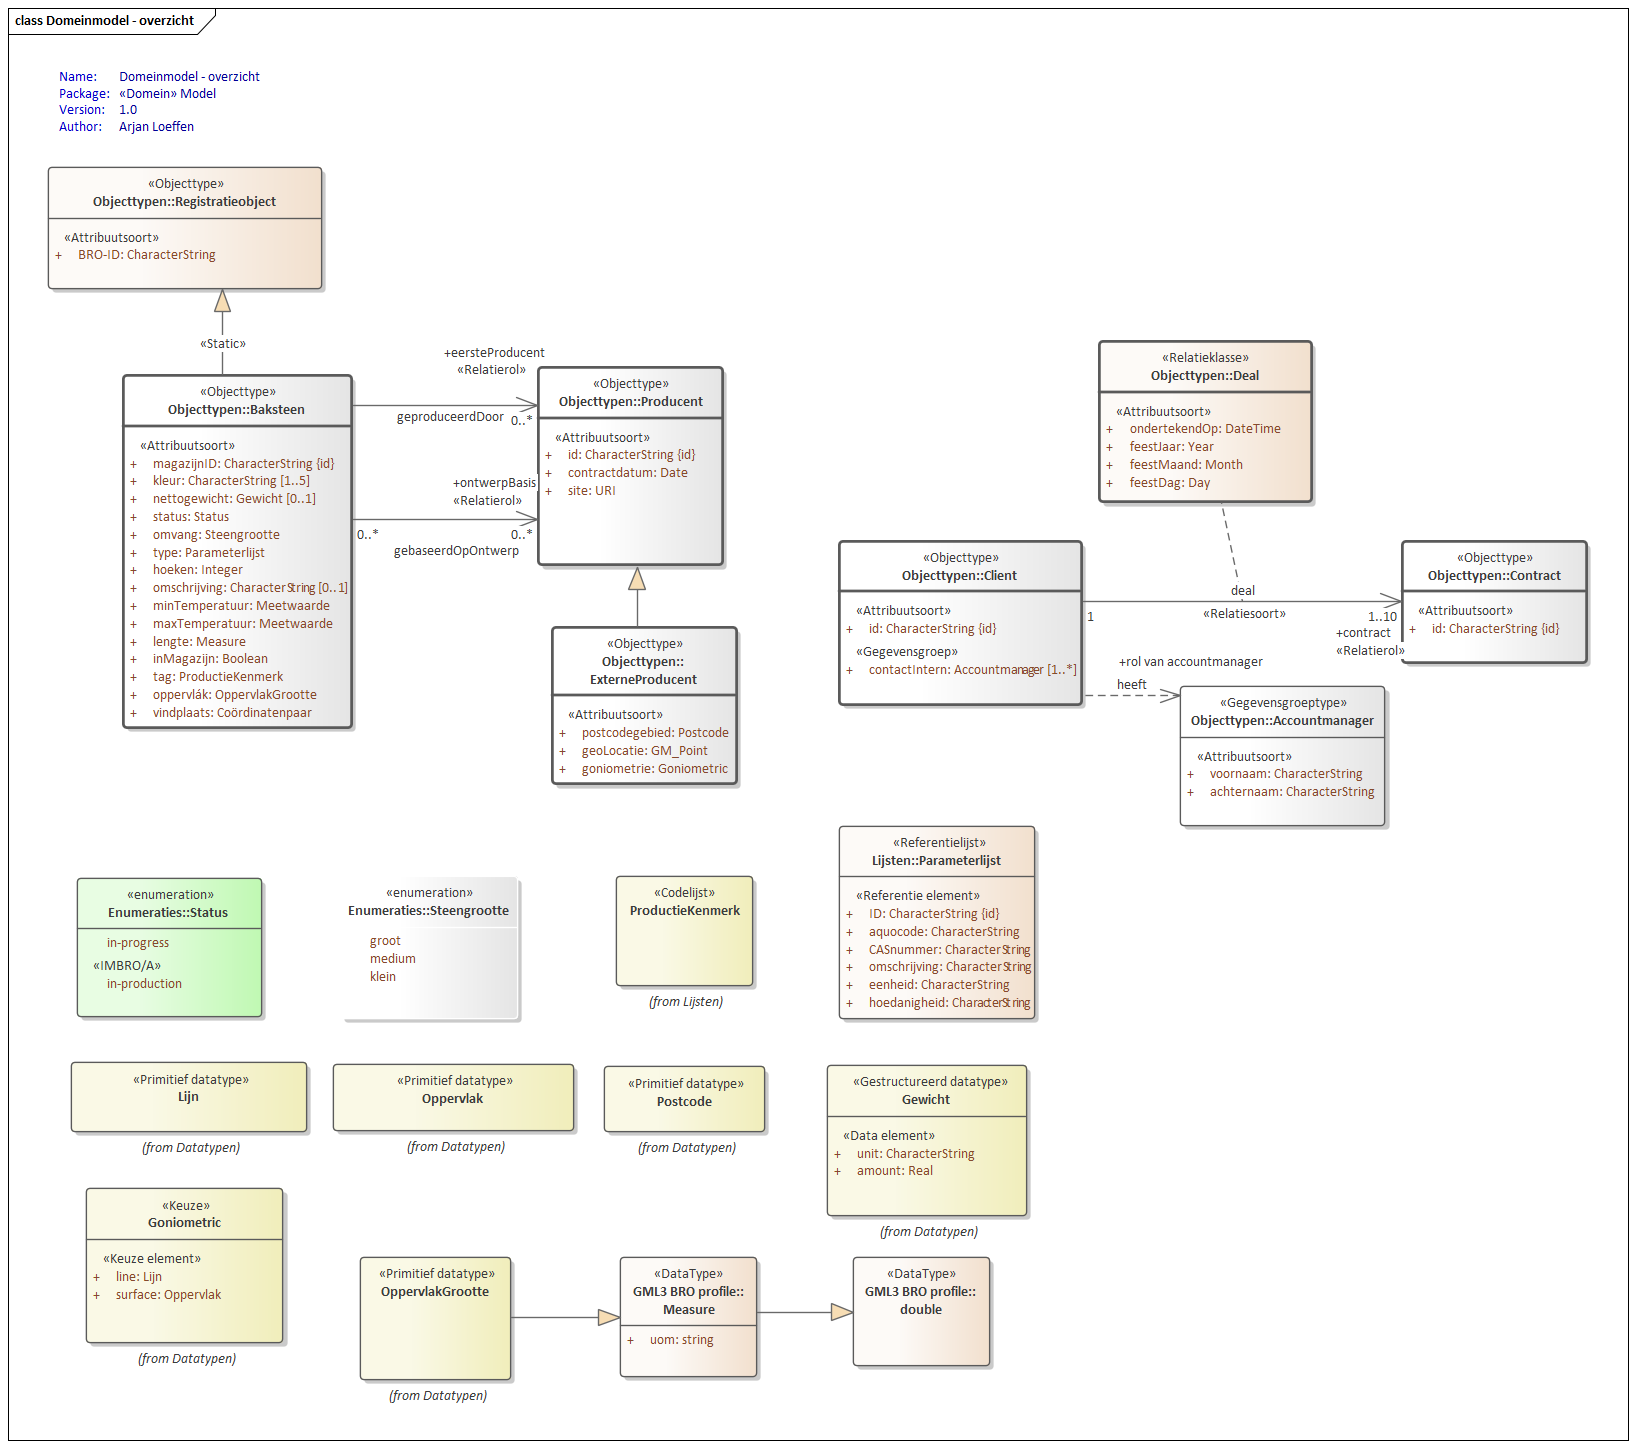
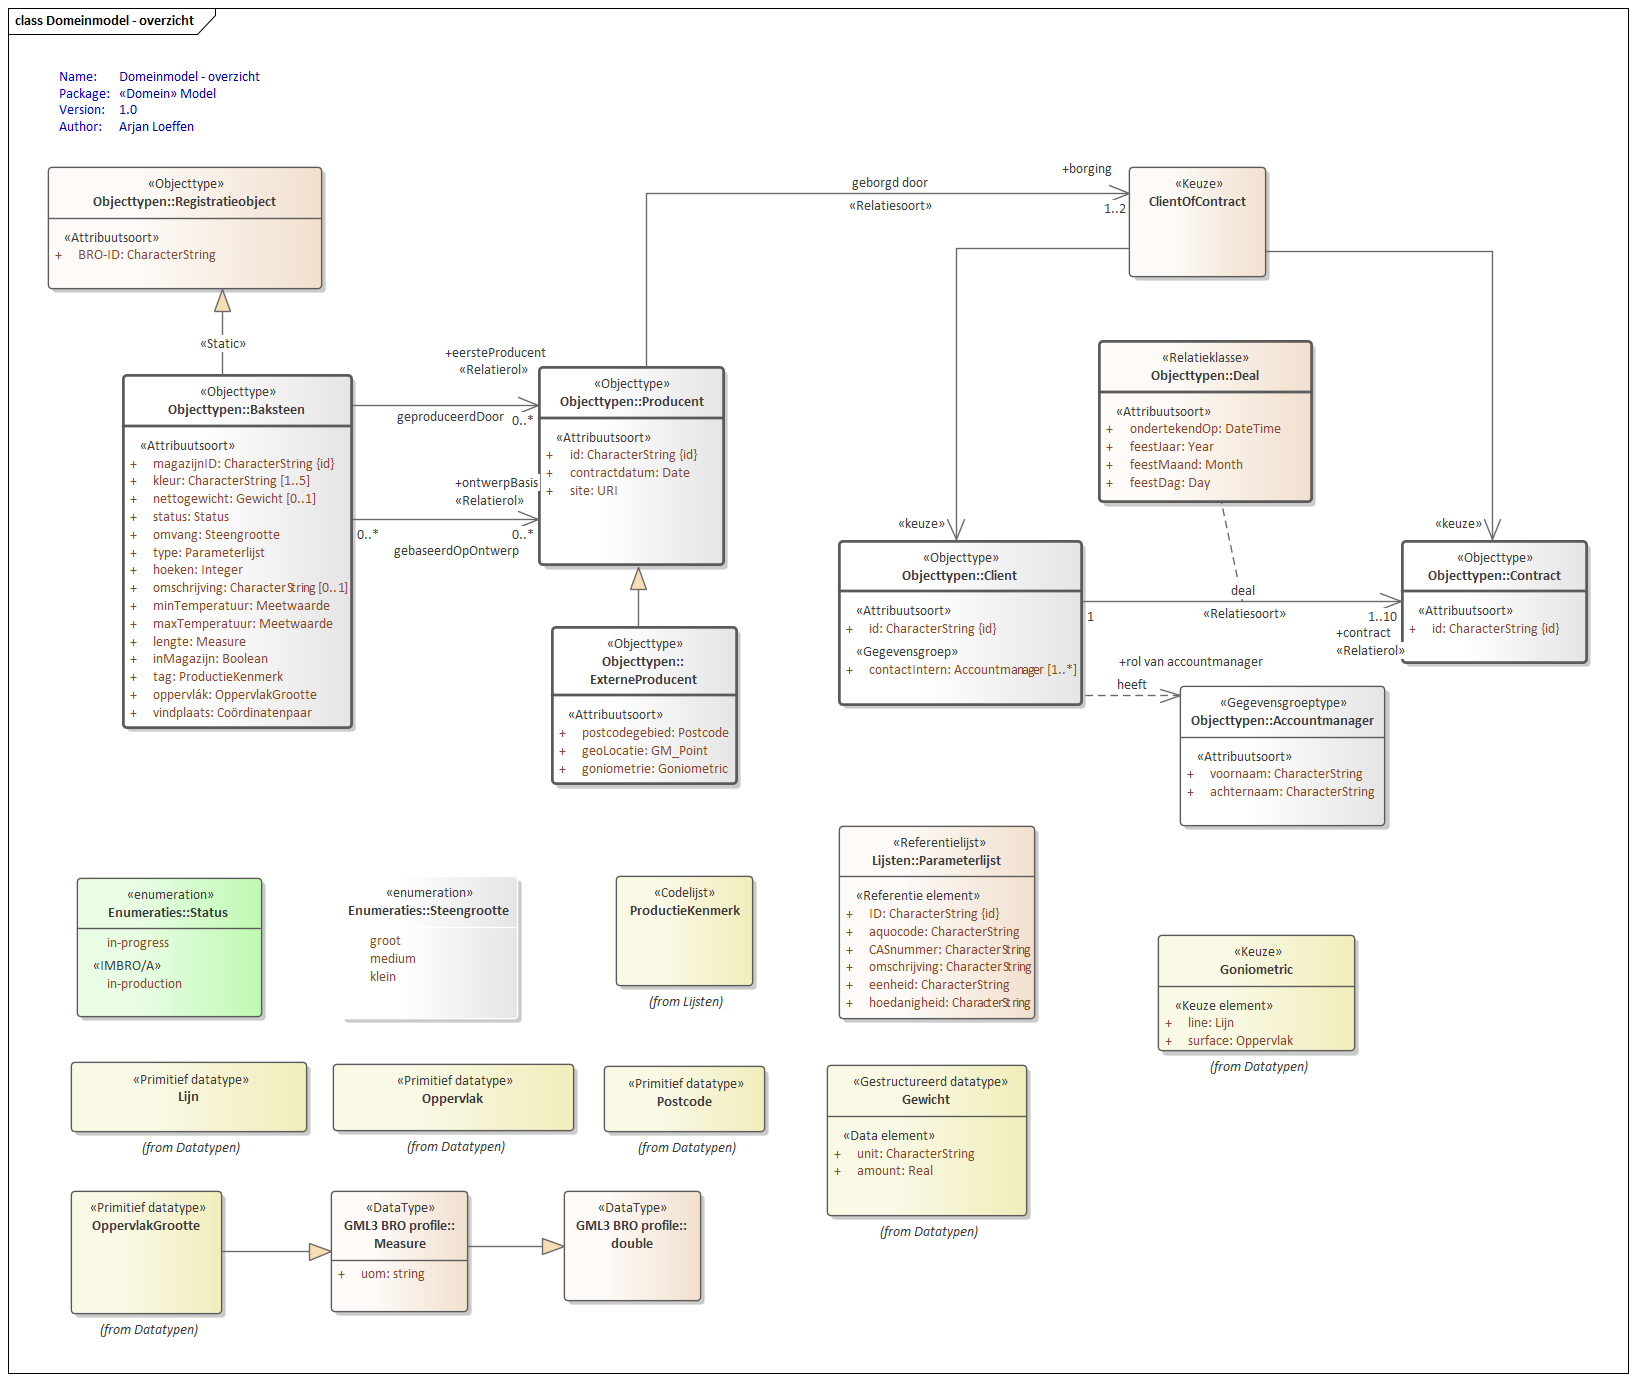
Conceptualmodel-SampleBaseSAMPLE-1.0.0-2-20130318-20210414-194719

diff --git a/data/SAMPLE-cat.msword.html b/data/SAMPLE-cat.msword.html
@@ -15,7 +15,7 @@
    <body>
       <p>Conceptual model/SampleBase (SAMPLE)/20130318</p>
       <p>Imvertor: 1.64.1</p>
-      <p>Model release: Conceptualmodel-SampleBaseSAMPLE-1.0.0-2-20130318-20210414-141713</p>
+      <p>Model release: Conceptualmodel-SampleBaseSAMPLE-1.0.0-2-20130318-20210414-194719</p>
       <hr>
       <section>
          <h1>Artikel 1 Definitie van registratieobject, entiteiten en attributen</h1>
@@ -53,7 +53,7 @@
          <section>
             <h2>Het domeinmodel</h2>
             <section id="">
-               <div class="imageinfo overview"><img src="Images/EAID_08513AA0_8A50_46c1_AD86_9B80D9A6AAE1.png" usemap="#imagemap-EAID_08513AA0_8A50_46c1_AD86_9B80D9A6AAE1" alt="Diagram Overzicht van alle constructies in dit conceptuele model."><map name="imagemap-EAID_08513AA0_8A50_46c1_AD86_9B80D9A6AAE1"><area shape="rect" alt="ProductieKenmerk" coords="616,876,753,986" href="#graph_EAID_4D78F0AD_88ED_44ef_9A76_163426CD74D1"><area shape="rect" alt="Parameterlijst" coords="839,826,1035,1019" href="#graph_EAID_44AEBC38_4744_431f_B31C_D809E3AA7D52"><area shape="rect" alt="Registratieobject" coords="48,167,322,289" href="#graph_EAID_9E9289AB_19E6_48af_87FD_8BC9E0875C28"><area shape="rect" alt="Steengrootte" coords="340,876,518,1019" href="#graph_EAID_65363897_E229_41fd_BE6F_E6B1BACAD458"><area shape="rect" alt="Accountmanager" coords="1180,686,1385,826" href="#graph_EAID_29D6B892_B943_494c_94C7_A13DB031E998"><area shape="rect" alt="Status" coords="77,878,262,1017" href="#graph_EAID_E86D21EE_58FD_4975_9CCB_AFF2434704A8"><area shape="rect" alt="Goniometric" coords="86,1188,283,1343" href="#graph_EAID_22DF50AD_91EB_4db3_AA33_D5C2CE2FB906"><area shape="rect" alt="ExterneProducent" coords="552,627,737,784" href="#graph_EAID_E2C93214_90E2_4151_B719_7BB8CDF8679F"><area shape="rect" alt="Baksteen" coords="123,375,352,728" href="#graph_EAID_CF7C4448_E50C_4c7a_B1D0_C4FCB2EB1814"><area shape="rect" alt="Producent" coords="538,367,723,565" href="#graph_EAID_04EED45C_4D30_41b9_83EE_65237E1F8E27"><area shape="rect" alt="Contract" coords="1402,541,1587,663" href="#graph_EAID_77987690_1141_457d_A33B_E1C7AA1EA812"><area shape="rect" alt="Client" coords="839,541,1082,705" href="#graph_EAID_DF955A82_3E49_4c9d_9C0C_74738600FE1B"></map><p><b>Domeinmodel</b> — Overzicht van alle constructies in dit conceptuele model.</p>
+               <div class="imageinfo overview"><img src="Images/EAID_08513AA0_8A50_46c1_AD86_9B80D9A6AAE1.png" usemap="#imagemap-EAID_08513AA0_8A50_46c1_AD86_9B80D9A6AAE1" alt="Diagram Overzicht van alle constructies in dit conceptuele model."><map name="imagemap-EAID_08513AA0_8A50_46c1_AD86_9B80D9A6AAE1"><area shape="rect" alt="ProductieKenmerk" coords="616,876,753,986" href="#graph_EAID_4D78F0AD_88ED_44ef_9A76_163426CD74D1"><area shape="rect" alt="Parameterlijst" coords="839,826,1035,1019" href="#graph_EAID_44AEBC38_4744_431f_B31C_D809E3AA7D52"><area shape="rect" alt="Registratieobject" coords="48,167,322,289" href="#graph_EAID_9E9289AB_19E6_48af_87FD_8BC9E0875C28"><area shape="rect" alt="Steengrootte" coords="340,876,518,1019" href="#graph_EAID_65363897_E229_41fd_BE6F_E6B1BACAD458"><area shape="rect" alt="Accountmanager" coords="1180,686,1385,826" href="#graph_EAID_29D6B892_B943_494c_94C7_A13DB031E998"><area shape="rect" alt="Status" coords="77,878,262,1017" href="#graph_EAID_E86D21EE_58FD_4975_9CCB_AFF2434704A8"><area shape="rect" alt="Goniometric" coords="1158,935,1355,1051" href="#graph_EAID_22DF50AD_91EB_4db3_AA33_D5C2CE2FB906"><area shape="rect" alt="ExterneProducent" coords="552,627,737,784" href="#graph_EAID_E2C93214_90E2_4151_B719_7BB8CDF8679F"><area shape="rect" alt="Baksteen" coords="123,375,352,728" href="#graph_EAID_CF7C4448_E50C_4c7a_B1D0_C4FCB2EB1814"><area shape="rect" alt="Producent" coords="539,367,724,565" href="#graph_EAID_04EED45C_4D30_41b9_83EE_65237E1F8E27"><area shape="rect" alt="Contract" coords="1402,541,1587,663" href="#graph_EAID_77987690_1141_457d_A33B_E1C7AA1EA812"><area shape="rect" alt="Client" coords="839,541,1082,705" href="#graph_EAID_DF955A82_3E49_4c9d_9C0C_74738600FE1B"></map><p><b>Domeinmodel</b> — Overzicht van alle constructies in dit conceptuele model.</p>
                </div>
             </section>
          </section>
@@ -945,7 +945,45 @@
                            </tr>
                         </tbody>
                      </table>
-                     </section>
+                     </section><a class="anchor" id="detail_association_Model_Producent_borging"></a><section id="detail_association_Model_Producent_borging">
+                     <h4>  borging</h4>
+                     <table style="width: 100%;">
+                        <colgroup style="width: 30%;"></colgroup>
+                        <colgroup style="width: 70%;"></colgroup>
+                        <tbody>
+                           <tr>
+                              <th>Type gegeven</th>
+                              <td>Associatie van Producent</td>
+                           </tr>
+                           <tr>
+                              <th>Kardinaliteit</th>
+                              <td>1..2</td>
+                           </tr>
+                           <tr>
+                              <th>Relatiesoort naam</th>
+                              <td>geborgd door</td>
+                           </tr>
+                           <tr>
+                              <th>Relatierol naam</th>
+                              <td>borging</td>
+                           </tr>
+                           <tr>
+                              <th>Bron</th>
+                              <td>Producent</td>
+                           </tr>
+                           <tr>
+                              <th>Doel</th>
+                              <td>
+                                 
+                                 KeuzeUit
+                                 Contract
+                                 Client
+                                 
+                                 </td>
+                           </tr>
+                        </tbody>
+                     </table>
+                  </section>
                </section><a class="anchor" id="graph_EAID_E2C93214_90E2_4151_B719_7BB8CDF8679F"></a><a class="anchor" id="global_class_Model_ExterneProducent"></a><section id="global_class_Model_ExterneProducent">
                   <h3>   ExterneProducent</h3>
                   <table style="width: 100%;">
@@ -1120,7 +1158,7 @@
                            </tr>
                         </tbody>
                      </table>
-                     </section><a class="anchor" id="detail_d18335e4255"></a><section id="detail_d18335e4255">
+                     </section><a class="anchor" id="detail_d18844e4571"></a><section id="detail_d18844e4571">
                      <h4>  contactIntern</h4>
                      <table style="width: 100%;">
                         <colgroup style="width: 30%;"></colgroup>

diff --git a/data/SAMPLE-cat.respec.html b/data/SAMPLE-cat.respec.html
@@ -31,7 +31,7 @@
       </section>
    <section id="">
       <h2>Het domeinmodel   </h2>
-      <div class="imageinfo overview"><img src="data/Images/EAID_08513AA0_8A50_46c1_AD86_9B80D9A6AAE1.png" usemap="#imagemap-EAID_08513AA0_8A50_46c1_AD86_9B80D9A6AAE1" alt="Diagram Overzicht van alle constructies in dit conceptuele model."><map name="imagemap-EAID_08513AA0_8A50_46c1_AD86_9B80D9A6AAE1"><area shape="rect" alt="ProductieKenmerk" coords="616,876,753,986" href="#graph_EAID_4D78F0AD_88ED_44ef_9A76_163426CD74D1"><area shape="rect" alt="Parameterlijst" coords="839,826,1035,1019" href="#graph_EAID_44AEBC38_4744_431f_B31C_D809E3AA7D52"><area shape="rect" alt="Registratieobject" coords="48,167,322,289" href="#graph_EAID_9E9289AB_19E6_48af_87FD_8BC9E0875C28"><area shape="rect" alt="Steengrootte" coords="340,876,518,1019" href="#graph_EAID_65363897_E229_41fd_BE6F_E6B1BACAD458"><area shape="rect" alt="Accountmanager" coords="1180,686,1385,826" href="#graph_EAID_29D6B892_B943_494c_94C7_A13DB031E998"><area shape="rect" alt="Status" coords="77,878,262,1017" href="#graph_EAID_E86D21EE_58FD_4975_9CCB_AFF2434704A8"><area shape="rect" alt="Goniometric" coords="86,1188,283,1343" href="#graph_EAID_22DF50AD_91EB_4db3_AA33_D5C2CE2FB906"><area shape="rect" alt="ExterneProducent" coords="552,627,737,784" href="#graph_EAID_E2C93214_90E2_4151_B719_7BB8CDF8679F"><area shape="rect" alt="Baksteen" coords="123,375,352,728" href="#graph_EAID_CF7C4448_E50C_4c7a_B1D0_C4FCB2EB1814"><area shape="rect" alt="Producent" coords="538,367,723,565" href="#graph_EAID_04EED45C_4D30_41b9_83EE_65237E1F8E27"><area shape="rect" alt="Contract" coords="1402,541,1587,663" href="#graph_EAID_77987690_1141_457d_A33B_E1C7AA1EA812"><area shape="rect" alt="Client" coords="839,541,1082,705" href="#graph_EAID_DF955A82_3E49_4c9d_9C0C_74738600FE1B"></map><p><b>Domeinmodel</b> — Overzicht van alle constructies in dit conceptuele model.</p>
+      <div class="imageinfo overview"><img src="data/Images/EAID_08513AA0_8A50_46c1_AD86_9B80D9A6AAE1.png" usemap="#imagemap-EAID_08513AA0_8A50_46c1_AD86_9B80D9A6AAE1" alt="Diagram Overzicht van alle constructies in dit conceptuele model."><map name="imagemap-EAID_08513AA0_8A50_46c1_AD86_9B80D9A6AAE1"><area shape="rect" alt="ProductieKenmerk" coords="616,876,753,986" href="#graph_EAID_4D78F0AD_88ED_44ef_9A76_163426CD74D1"><area shape="rect" alt="Parameterlijst" coords="839,826,1035,1019" href="#graph_EAID_44AEBC38_4744_431f_B31C_D809E3AA7D52"><area shape="rect" alt="Registratieobject" coords="48,167,322,289" href="#graph_EAID_9E9289AB_19E6_48af_87FD_8BC9E0875C28"><area shape="rect" alt="Steengrootte" coords="340,876,518,1019" href="#graph_EAID_65363897_E229_41fd_BE6F_E6B1BACAD458"><area shape="rect" alt="Accountmanager" coords="1180,686,1385,826" href="#graph_EAID_29D6B892_B943_494c_94C7_A13DB031E998"><area shape="rect" alt="Status" coords="77,878,262,1017" href="#graph_EAID_E86D21EE_58FD_4975_9CCB_AFF2434704A8"><area shape="rect" alt="Goniometric" coords="1158,935,1355,1051" href="#graph_EAID_22DF50AD_91EB_4db3_AA33_D5C2CE2FB906"><area shape="rect" alt="ExterneProducent" coords="552,627,737,784" href="#graph_EAID_E2C93214_90E2_4151_B719_7BB8CDF8679F"><area shape="rect" alt="Baksteen" coords="123,375,352,728" href="#graph_EAID_CF7C4448_E50C_4c7a_B1D0_C4FCB2EB1814"><area shape="rect" alt="Producent" coords="539,367,724,565" href="#graph_EAID_04EED45C_4D30_41b9_83EE_65237E1F8E27"><area shape="rect" alt="Contract" coords="1402,541,1587,663" href="#graph_EAID_77987690_1141_457d_A33B_E1C7AA1EA812"><area shape="rect" alt="Client" coords="839,541,1082,705" href="#graph_EAID_DF955A82_3E49_4c9d_9C0C_74738600FE1B"></map><p><b>Domeinmodel</b> — Overzicht van alle constructies in dit conceptuele model.</p>
       </div>
    </section>
    <section id="">
@@ -921,7 +921,45 @@
                   </tr>
                </tbody>
             </table>
-            </section>
+            </section><a class="anchor" id="detail_association_Model_Producent_borging"></a><section id="detail_association_Model_Producent_borging">
+            <h4>  borging</h4>
+            <table style="width: 100%;">
+               <colgroup style="width: 30%;"></colgroup>
+               <colgroup style="width: 70%;"></colgroup>
+               <tbody>
+                  <tr>
+                     <th>Type gegeven</th>
+                     <td>Associatie van Producent</td>
+                  </tr>
+                  <tr>
+                     <th>Kardinaliteit</th>
+                     <td>1..2</td>
+                  </tr>
+                  <tr>
+                     <th>Relatiesoort naam</th>
+                     <td>geborgd door</td>
+                  </tr>
+                  <tr>
+                     <th>Relatierol naam</th>
+                     <td>borging</td>
+                  </tr>
+                  <tr>
+                     <th>Bron</th>
+                     <td>Producent</td>
+                  </tr>
+                  <tr>
+                     <th>Doel</th>
+                     <td>
+                        
+                        KeuzeUit
+                        Contract
+                        Client
+                        
+                        </td>
+                  </tr>
+               </tbody>
+            </table>
+         </section>
       </section><a class="anchor" id="graph_EAID_E2C93214_90E2_4151_B719_7BB8CDF8679F"></a><a class="anchor" id="global_class_Model_ExterneProducent"></a><section id="global_class_Model_ExterneProducent">
          <h3>   ExterneProducent</h3>
          <table style="width: 100%;">
@@ -1096,7 +1134,7 @@
                   </tr>
                </tbody>
             </table>
-            </section><a class="anchor" id="detail_d18335e4255"></a><section id="detail_d18335e4255">
+            </section><a class="anchor" id="detail_d18844e4571"></a><section id="detail_d18844e4571">
             <h4>  contactIntern</h4>
             <table style="width: 100%;">
                <colgroup style="width: 30%;"></colgroup>
